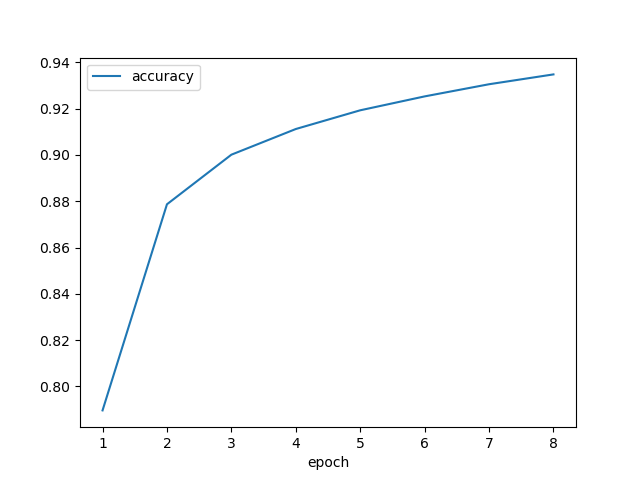
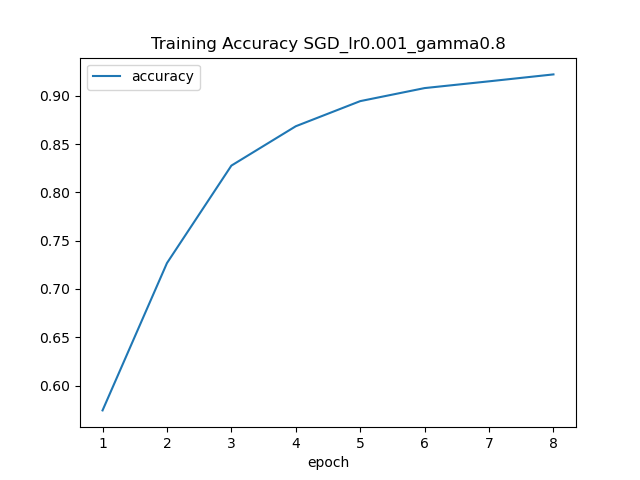
改成卷积一次池化一次，结果更差。

diff --git a/hw05_CNN_Unet/MNIST_CNN/model_cnn_TODO.py b/hw05_CNN_Unet/MNIST_CNN/model_cnn_TODO.py
@@ -13,12 +13,13 @@ class Net(nn.Module):
         self.conv2 = nn.Conv2d(32, 64, 3, 1)
         self.dropout1 = nn.Dropout(0.3)
         self.dropout2 = nn.Dropout(0.3)
-        self.fc1 = nn.Linear(9216, 128)
+        self.fc1 = nn.Linear(1600, 128)
         self.fc2 = nn.Linear(128, 10)
 
     def forward(self, x):
         # 第一层卷积
         x = F.relu(self.conv1(x))
+        # x = self.pool1(x)
         # 第二层卷积
         x = F.relu(self.conv2(x))
         # 池化层
